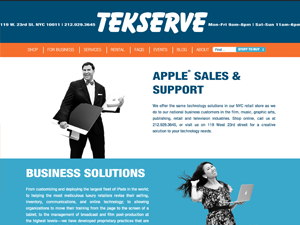
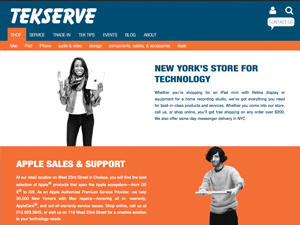
Preparing for release of 1.5

diff --git a/style.css b/style.css
@@ -5,13 +5,13 @@
 	Author: StudioPress / Chad A. Carino
 	Author URI: http://www.tekserve.com/
  
-	Version: 1.4.8a
+	Version: 1.5
  
 	Tags: black, blue, green, orange, pink, red, white, one-column, fixed-width, custom-background, custom-header, custom-menu, featured-images, full-width-template, sticky-post, theme-options, threaded-comments, translation-ready
  
 	Template: genesis
 	Template Version: 2.0
  
-	License: GNU General Public License v2.0 (or later)
-	License URI: http://www.opensource.org/licenses/gpl-license.php
+	License: MIT
+	License URI: http://opensource.org/licenses/MIT
 */

diff --git a/js/folk.js b/js/folk.js
@@ -77,7 +77,9 @@ function insertLogoFoursquare() {
 
 function insertFooterFolk() {
 
-	var folk = '<img src="' + folkurl + '" />';
-	$j('#footerfolk').html(folk);
+	// var folk = '<img src="' + folkurl + '" />';
+// 	$j('#footerfolk').html(folk);
+
+	return false;
 	
 } //end insertFooterFolk()

diff --git a/functions.php b/functions.php
@@ -196,26 +196,26 @@ function bw_images_filter($meta) {
 }
 
 /** Create search box in topnav */
-add_filter( 'wp_nav_menu_items', 'genesis_search_primary_nav_menu', 10, 2 );
-
-function genesis_search_primary_nav_menu( $menu, stdClass $args ){
-        if ( 'primary' != $args->theme_location )
-        	return $menu;
-               if( genesis_get_option( 'nav_extras' ) )
-                return $menu;
-        if ( function_exists( 'tekserve_divert_relevanissi' ) ) {
-			$menu .= sprintf( '<li class="tekserve_custom_search custom-search right search">%s</li>', __( tekserve_custom_search( $echo ) ) );
-        }
-        else {
-        	$menu .= sprintf( '<li class="tekserve_custom_search custom-search right search">%s</li>', __( genesis_search_form( $echo ) ) );
-        }
-        return $menu;
-}
+// add_filter( 'wp_nav_menu_items', 'genesis_search_primary_nav_menu', 10, 2 );
+// 
+// function genesis_search_primary_nav_menu( $menu, stdClass $args ){
+//         if ( 'primary' != $args->theme_location )
+//         	return $menu;
+//                if( genesis_get_option( 'nav_extras' ) )
+//                 return $menu;
+//         if ( function_exists( 'tekserve_divert_relevanissi' ) ) {
+// 			$menu .= sprintf( '<li class="tekserve_custom_search custom-search right search">%s</li>', __( tekserve_custom_search( $echo ) ) );
+//         }
+//         else {
+//         	$menu .= sprintf( '<li class="tekserve_custom_search custom-search right search">%s</li>', __( genesis_search_form( $echo ) ) );
+//         }
+//         return $menu;
+// }
 
 
 /** Include JS files that create full width sections and wraps with adaptive background colors */
 function include_local_scripts() {
-	wp_enqueue_style ( 'apparitioncss', get_stylesheet_directory_uri() . '/apparition.min.css' );
+	wp_enqueue_style ( 'apparitioncss', get_stylesheet_directory_uri() . '/apparition.css' );
 
 //  	wp_enqueue_script ( 'color2color', get_stylesheet_directory_uri() . '/js/color2color.min.js' );
  	wp_enqueue_style ( 'gspn', get_stylesheet_directory_uri() . '/gspn-additons.css' );
@@ -230,7 +230,9 @@ function include_local_scripts() {
 // 	wp_enqueue_script ( 'navmenu', get_stylesheet_directory_uri() . '/js/navmenu.js', array( 'jquery' ), '', true );
 // 	wp_enqueue_script ( 'width', get_stylesheet_directory_uri() . '/js/width.js', array( 'jquery' ), '', true );
 // 	wp_enqueue_script ( 'loadpage', get_stylesheet_directory_uri() . '/js/loadpage.js', array( 'jquery', 'detailbox', 'icaps', 'navmenu', 'width' ), '', true );
-	wp_enqueue_script ( 'apparitionjs', get_stylesheet_directory_uri() . '/js/apparition.min.js', array( 'jquery' ) );
+	wp_enqueue_script ( 'apparitionjs', get_stylesheet_directory_uri() . '/js/apparition.js', array( 'jquery' ) );
+	wp_enqueue_script ( 'formtitles', get_stylesheet_directory_uri() . '/js/formtitles.js', array( 'jquery' ) );
+		
 	$jsdata = array(
 		'cssurl'	=> get_stylesheet_directory_uri()
 	);
@@ -238,9 +240,8 @@ function include_local_scripts() {
 	
 	//testing new menu
 	wp_enqueue_style ( 'tekmenustyle', get_stylesheet_directory_uri() . '/tekmenustyle.css' );
-	
-	//tektips structure
-	wp_enqueue_script ( 'tektipsjs', get_stylesheet_directory_uri() . '/js/faqtoc.js', array( 'jquery' ), '', true );
+	wp_enqueue_script ( 'tekmenujs', get_stylesheet_directory_uri() . '/js/tekmenustyle.js', array( 'jquery' ) );
+
 }
 add_action( 'wp_enqueue_scripts', 'include_local_scripts' );
 
@@ -297,38 +298,12 @@ array(
 			'version' 	=> '1.0.10',
 			'force_activation' 	=> true,
 		),
-
 		
 		array(
-			'name' 		=> 'Better WordPress Minify',
-			'slug' 		=> 'bwp-minify',
-			'required' 	=> false,
-			'version' 	=> '1.3.1',
-			'force_activation' 	=> false,
-		),
-				
-		array(
-			'name' 		=> 'Collapse-Pro-Matic',
-			'slug' 		=> 'collapse-pro-matic',
+			'name' 		=> 'Font Awesome WP',
+			'slug' 		=> 'font-awesome-wp',
 			'required' 	=> true,
-			'version' 	=> '1.0.2',
-			'force_activation' 	=> true,
-			'source'	=> get_stylesheet_directory_uri() . '/lib/collapse-pro-matic.zip'
-		),
-		
-		array(
-			'name' 		=> "Dave's WordPress Live Search",
-			'slug' 		=> 'daves-wordpress-live-search',
-			'required' 	=> true,
-			'version' 	=> '4.1',
-			'force_activation' 	=> false,
-		),
-		
-		array(
-			'name' 		=> 'Font Awesome Icons',
-			'slug' 		=> 'font-awesome',
-			'required' 	=> true,
-			'version' 	=> '3.2.1',
+			'version' 	=> '1.0',
 			'force_activation' 	=> true,
 		),
 		
@@ -388,23 +363,6 @@ array(
 			'required' 	=> false,
 			'version' 	=> '1.3.10',
 			'force_activation' 	=> false,
-		),
-		
-		array(
-			'name' 		=> 'Relevanissi',
-			'slug' 		=> 'relevanssi',
-			'required' 	=> false,
-			'version' 	=> '3.3.5',
-			'force_activation' 	=> false,
-		),
-		
-		array(
-			'name' 		=> 'Relevanissi Divert',
-			'slug' 		=> 'relevanissi-divert',
-			'required' 	=> false,
-			'version' 	=> '1.0',
-			'force_activation' 	=> false,
-			'source'	=> get_stylesheet_directory_uri() . '/lib/relevanissi-divert.zip'
 		),
 		
 		array(
@@ -519,14 +477,6 @@ array(
 		),
 		
 		array(
-			'name' 		=> 'Widgets on Pages',
-			'slug' 		=> 'widgets-on-pages',
-			'required' 	=> false,
-			'version' 	=> '0.0.12',
-			'force_activation' 	=> false,
-		),
-		
-		array(
 			'name' 		=> 'WPBakery Visual Composer',
 			'slug' 		=> 'js_composer',
 			'required' 	=> true,
@@ -627,66 +577,9 @@ $args = array(
     return $args;
 }
 
-//magicNav has been deprecated.
-
-//This (updater) is deprecated for launch, remains for data cleanup project
-// /** Register Custom Taxonomy for content update assignments */
-// if ( ! function_exists('updater') ) {
-// 	function updater()  {
-// 		$labels = array(
-// 			'name'                       => 'Updaters',
-// 			'singular_name'              => 'Updater',
-// 			'menu_name'                  => 'Updater',
-// 			'all_items'                  => 'All Updaters',
-// 			'parent_item'                => 'Parent Updater',
-// 			'parent_item_colon'          => 'Parent Updater:',
-// 			'new_item_name'              => 'New Updater Name',
-// 			'add_new_item'               => 'Add New Updater',
-// 			'edit_item'                  => 'Edit Updater',
-// 			'update_item'                => 'Update Updater',
-// 			'separate_items_with_commas' => 'Separate Updaters with commas',
-// 			'search_items'               => 'Search Updaters',
-// 			'add_or_remove_items'        => 'Add or remove Updaters',
-// 			'choose_from_most_used'      => 'Choose from existing Updaters',
-// 		);
-// 		$args = array(
-// 			'labels'                     => $labels,
-// 			'hierarchical'               => false,
-// 			'public'                     => true,
-// 			'show_ui'                    => true,
-// 			'show_admin_column'          => true,
-// 			'show_in_nav_menus'          => true,
-// 			'show_tagcloud'              => false,
-// 			'query_var'                  => 'updater',
-// 			'rewrite'                    => false,
-// 		);
-// 		register_taxonomy( 'updater', 'post', $args );
-// }
-// // Hook into the 'init' action
-// add_action( 'init', 'updater', 0 );
-// }
-
 /** Customize the credits */
 remove_action( 'genesis_footer', 'genesis_do_footer' );
 add_action( 'genesis_footer', 'tekserve_footer' );
-function tekserve_footer_classic() {
-	echo '<div class="gototop"><p><a href="#wrap" rel="nofollow">Return to top of page</a></p></div>';
-	echo '<div class="creds">';
-	echo '<div class="leftcopy">';
-	echo '<a href="http://www.tekserve.com/terms-of-use/">Terms of Use</a> | ';
-	echo '<a href="http://www.tekserve.com/privacy-policy/">Privacy Policy</a>';
-	echo '</div>';
-	echo '<div class="centercopy">';
-	echo 'Copyright &copy; ';
-	echo date('Y');
-	echo ' <a href="http://www.tekserve.com">Tekserve Corporation</a>';
-	echo '</div>';
-	echo '<div class="rightcopy">';
-	echo ' <a href="http://nytm.org/made">Dilligently Made in NYC</a>';
-	echo '</div>';
-	echo '</div>';
-}
-
 function tekserve_footer() {
 	echo '<div class="vc_row wpb_row vc_row-fluid">';
 	echo '	<div class="vc_col-sm-1 wpb_column vc_column_container">';
@@ -784,8 +677,6 @@ $html .= '
 			<li id="foursquare">
 			</li>
 		</ul>
-		<div id="footerfolk" class="footer-folk-image">
-		</div>
 	</div>
 </div>
 
@@ -845,31 +736,31 @@ function invisible_line() {
 	Map Trigger
 ****/
 
-add_shortcode( 'maptrigger', 'map_trigger' );
-
-function map_trigger( $atts, $content = null ) {
-	$a = shortcode_atts( array(
-		'group' => 'triggers',
-		'title' => $content
-	), $atts, 'maptrigger' );
-	return '<div class="collapseomatic colomat-visited drawertrigger" id="trigger-get-directions" rel="' . $a['group'] . '-highlander" title="' . $a['title'] . '" onclick="getToTekserveLoadScript();">' . $content . '</div>';
-}
+// add_shortcode( 'maptrigger', 'map_trigger' );
+// 
+// function map_trigger( $atts, $content = null ) {
+// 	$a = shortcode_atts( array(
+// 		'group' => 'triggers',
+// 		'title' => $content
+// 	), $atts, 'maptrigger' );
+// 	return '<div class="collapseomatic colomat-visited drawertrigger" id="trigger-get-directions" rel="' . $a['group'] . '-highlander" title="' . $a['title'] . '" onclick="getToTekserveLoadScript();">' . $content . '</div>';
+// }
 
 /****
 	Drawer Trigger
 ****/
 
-add_shortcode( 'drawertrigger', 'drawer_trigger' );
-
-function drawer_trigger( $atts, $content = null ) {
-	$a = shortcode_atts( array(
-		'drawerid'	=> 'nodrawer',
-		'title'		=> $content,
-		'swaptitle'	=> '',
-		'group'		=> 'triggers'
-	), $atts, 'drawertrigger' );
-	return '<div class="drawertrigger-container"><div class="collapseomatic colomat-visited drawertrigger scroll-to-trigger" id="extra1-' . $a['drawerid'] . '" rel="' . $a['group'] . '-highlander" title="' . $a['title'] . '" >' . $content . '</div><div id="swap-' . $a['drawerid'] . '" style="display:none;">' . $a['swaptitle'] . '</div></div>';
-}
+// add_shortcode( 'drawertrigger', 'drawer_trigger' );
+// 
+// function drawer_trigger( $atts, $content = null ) {
+// 	$a = shortcode_atts( array(
+// 		'drawerid'	=> 'nodrawer',
+// 		'title'		=> $content,
+// 		'swaptitle'	=> '',
+// 		'group'		=> 'triggers'
+// 	), $atts, 'drawertrigger' );
+// 	return '<div class="drawertrigger-container"><div class="collapseomatic colomat-visited drawertrigger scroll-to-trigger" id="extra1-' . $a['drawerid'] . '" rel="' . $a['group'] . '-highlander" title="' . $a['title'] . '" >' . $content . '</div><div id="swap-' . $a['drawerid'] . '" style="display:none;">' . $a['swaptitle'] . '</div></div>';
+// }
 
 /****
 	Editor Buttons for Shortcodes
@@ -888,6 +779,6 @@ function add_apparition_tinymce_buttons( $plugin_array ) {
 }
 
 function register_apparition_tinymce_buttons( $buttons ) {
-    array_push( $buttons, 'tekbutton', 'invisibleline', 'drawertrigger', 'maptrigger' ); 
+    array_push( $buttons, 'tekbutton', 'invisibleline' ); 
     return $buttons;
 }
